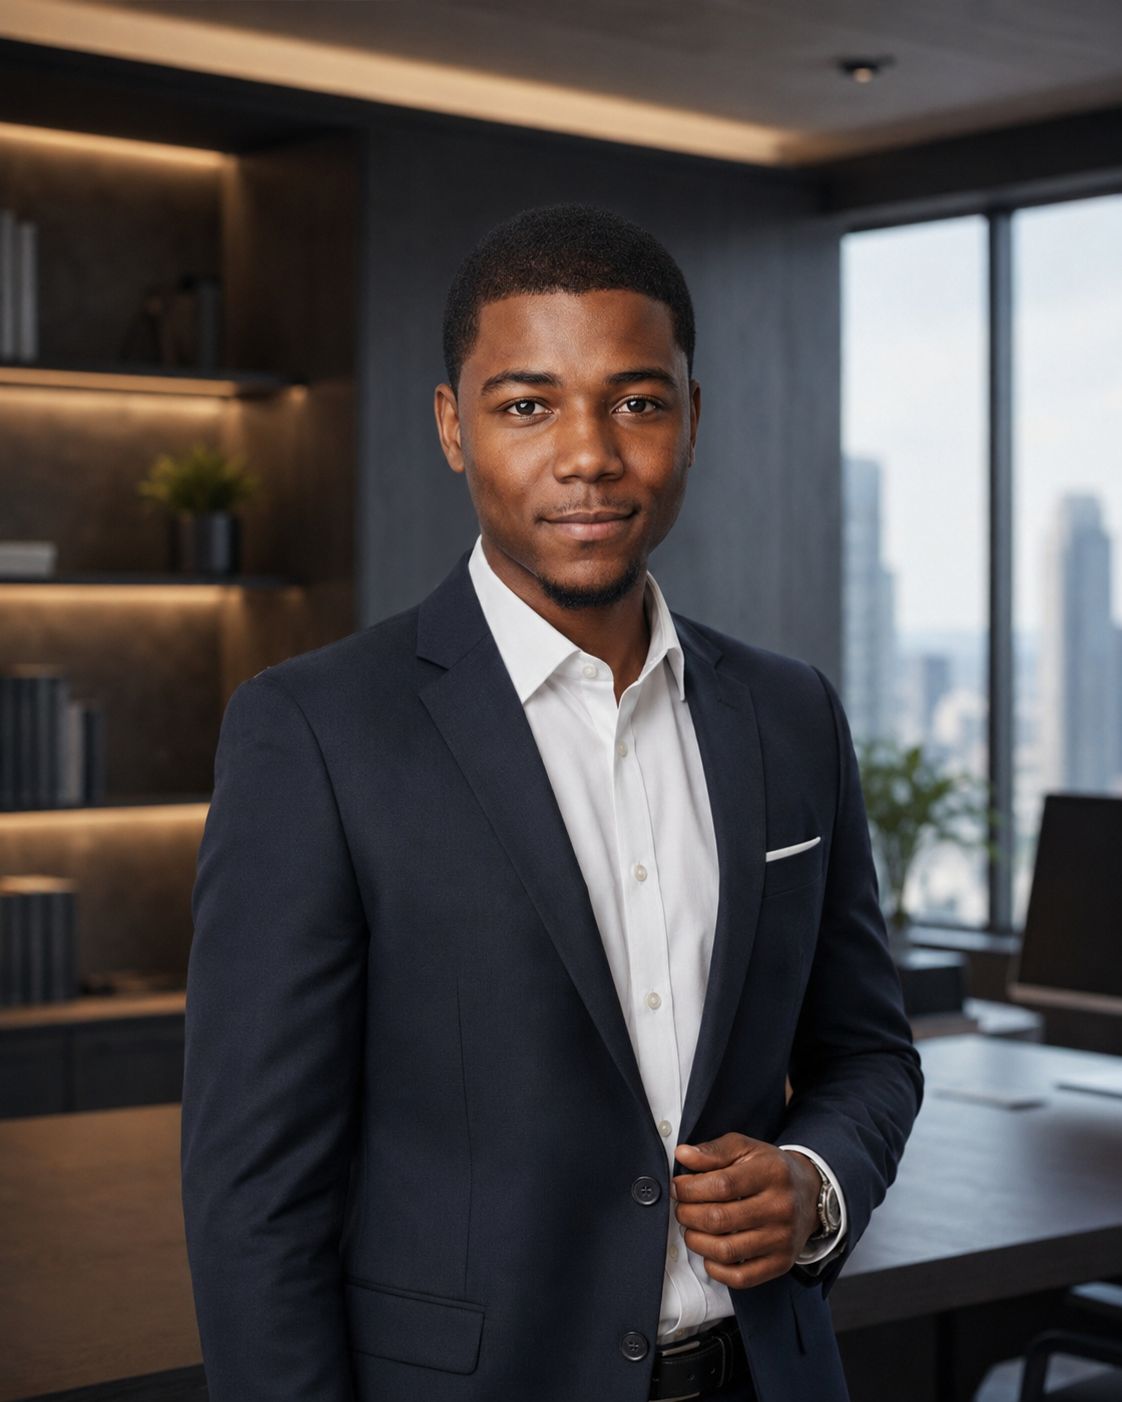
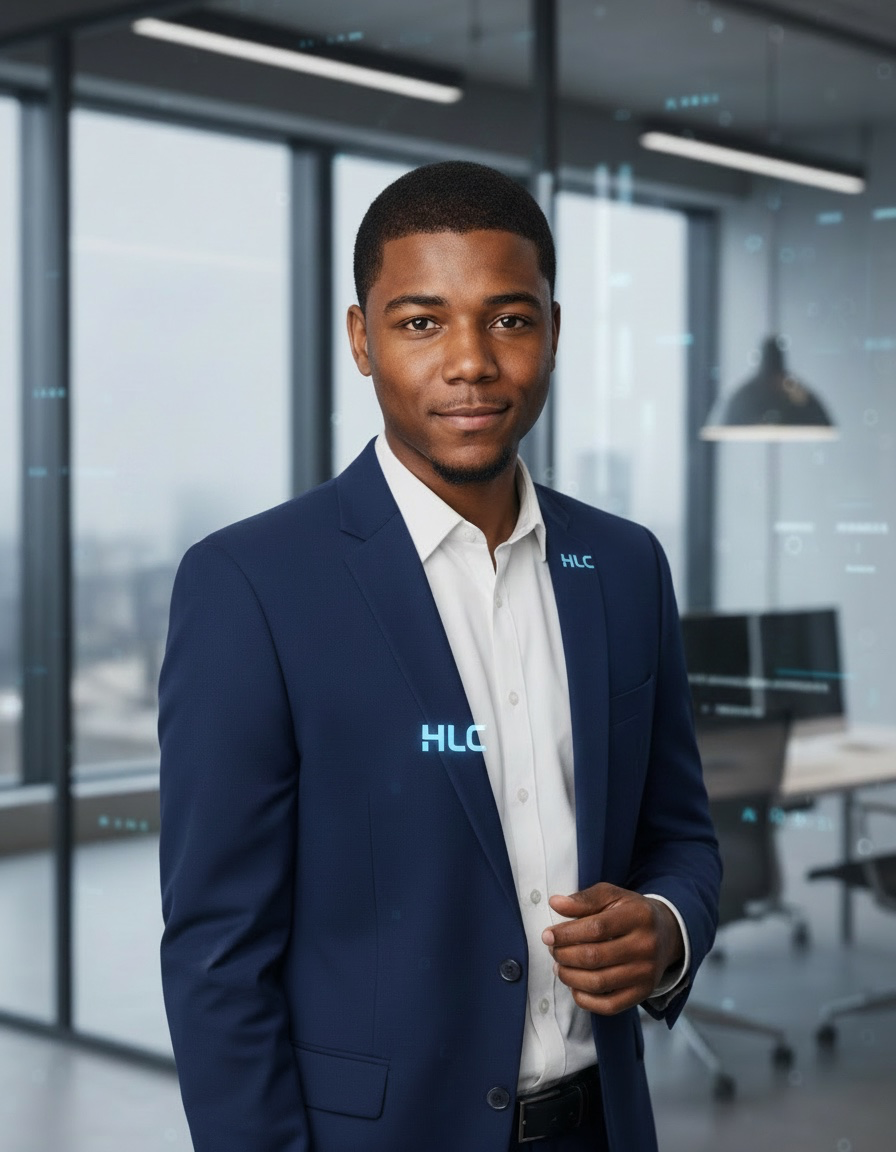
Bring forward locked AI identity assets

diff --git a/src/ai/agents.test.ts b/src/ai/agents.test.ts
@@ -31,7 +31,7 @@ test("canonical AI role labels and department accents stay locked without purple
 
 test("agent pages use the exact locked portrait assets", () => {
   const expected = {
[4 lines of base64/hex data omitted]
   } as const;
@@ -41,6 +41,26 @@ test("agent pages use the exact locked portrait assets", () => {
     const asset = readFileSync(`public${publicPath}`);
     assert.equal(createHash("sha256").update(asset).digest("hex"), sha256);
   }
+});
+
+test("agent source portraits and official logo remain identity locked", () => {
+  const registry = readFileSync("docs/governance/ASSET_REGISTRY.md", "utf8");
+  const expectedSources = {
[3 lines of base64/hex data omitted]
+  } as const;
+
+  for (const [agentId, [sourcePath, sha256]] of Object.entries(expectedSources)) {
+    const asset = readFileSync(sourcePath);
+    assert.equal(createHash("sha256").update(asset).digest("hex"), sha256, `${agentId} source portrait must not drift`);
+    assert.match(registry, new RegExp(sourcePath.replaceAll(".", "\\.")));
+  }
+
+  const officialLogo = readFileSync("public/brand/homelead-connect-official-master.svg");
[1 lines of base64/hex data omitted]
+  assert.match(registry, /Never alter agent facial identity/);
+  assert.match(registry, /Never alter, redraw, approximate, retype, or restyle the official logo/);
 });
 
 test("agent capabilities remain role-scoped and deterministic", () => {

diff --git a/docs/governance/ASSET_REGISTRY.md b/docs/governance/ASSET_REGISTRY.md
@@ -3,6 +3,11 @@
 ## Official Brand Assets
 Canonical HomeLead artwork must remain separate from generated scene art. The approved full logo, circular HLC mark, and standalone emblem are the source assets for official branding.
 
+Locked official source:
+- `/public/brand/homelead-connect-official-master.svg`
+
+Never alter, redraw, approximate, retype, or restyle the official logo for production/prototype brand surfaces. Generated scenes may include environmental signage only when the official logo is placed from the locked source asset or a verified derivative.
+
 ## Canonical AI Persona Assets
 - Kendrell — locked canonical portrait
 - Dion — locked canonical portrait
@@ -10,11 +15,19 @@ Canonical HomeLead artwork must remain separate from generated scene art. The ap
 
 Production currently references persona imagery through the HomeLead brand asset paths, including `/brand/avatars/Kendrell_Locked_HLC.png`, `/brand/avatars/Dion_Locked_HLC.png`, and `/brand/avatars/Diamond_Locked_HLC.png` where available.
 
+Locked identity source portraits:
+- Kendrell — `/public/brand/avatars/sources/Kendrell_Identity_Source_20260920.jpeg`
+- Dion — `/public/brand/avatars/sources/Dion_Identity_Source_20260920.jpeg`
+- Diamond — `/public/brand/avatars/sources/Diamond_Identity_Source_20260920.jpeg`
+
+Never alter agent facial identity. Solo and team/together imagery may change pose, crop, setting, lighting, clothing, and workplace context only when the face remains the locked identity. Generated or edited images that drift facial structure, age, skin tone, eye shape, mouth shape, hairline, or recognizable likeness must not replace the locked assets.
+
 ## Supporting Variants
-Supporting portraits may change pose, crop, workplace, lighting, departmental screens, and environmental context. They must be registered as supporting assets and do not replace canonical portraits automatically.
+Supporting portraits may change pose, crop, workplace, lighting, departmental screens, wardrobe, and environmental context. They must be registered as supporting assets and do not replace canonical portraits automatically. Together/team images must use the same locked faces for Kendrell, Dion, and Diamond.
 
 ## Governance
 - Keep canonical persona images separate.
 - Keep official HLC logos as separate overlay/source artwork.
 - AI-generated logo approximations do not become production brand assets.
 - Canonical replacement requires explicit approval.
+- Canonical face replacement requires explicit approval and a hash update in the locked identity tests.
